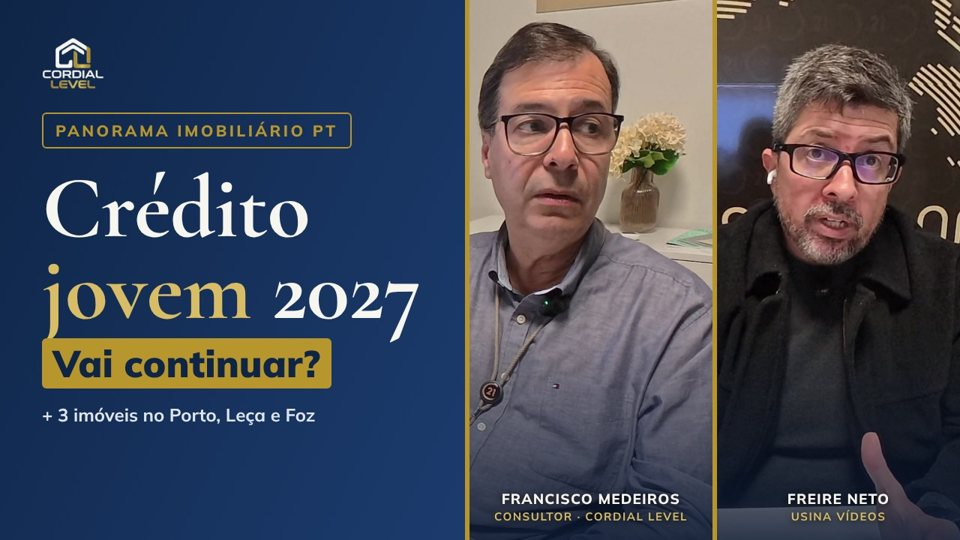
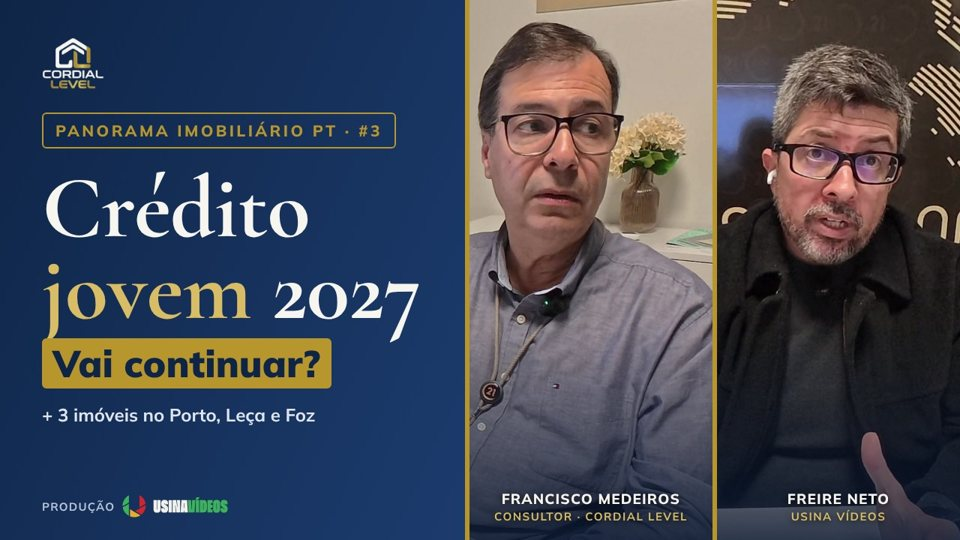
Panorama #3: artes para redes (carrossel, vertical, WhatsApp) e link para a web story na Cordial Level
Claude-Session: https://claude.ai/code/session_01UTHG5rydr4nbrxrko1yt6o

Changed region(s): [[0.3438, 0.2074, 0.4375, 0.2963], [0.0312, 0.9185, 0.25, 0.9778]]

diff --git a/cordiallevel/index.html b/cordiallevel/index.html
@@ -431,7 +431,7 @@ document.addEventListener('click',function(e){var a=e.target.closest&&e.target.c
 <div class="vfeat"><button class="yt" data-id="07GUVT6ILno" aria-label="Ver vídeo: T1 duplex em Cedofeita, no centro do Porto"><img src="https://i.ytimg.com/vi/07GUVT6ILno/hqdefault.jpg" alt="" loading="lazy" width="480" height="360"><span class="play" aria-hidden="true"></span></button><div class="vtxt"><span class="vtag">Novo · Vídeo-reportagem · 1 min 38 s</span><h3>T1 duplex em Cedofeita, no centro do Porto</h3><p>T1 duplex de 2022 num condomínio com pátio ajardinado, garagem e elevador, a poucos minutos da Baixa. 289 000 €.</p><a class="btn gold" href="cedofeita/">Ver a apresentação do imóvel →</a><a class="vlk" href="https://www.youtube.com/watch?v=07GUVT6ILno" target="_blank" rel="noopener">Ver no YouTube ↗</a></div></div>
 <h3 class="vsub">Vídeo-reportagens</h3>
 <div class="vgrid"><figure class="vid"><button class="yt" data-id="m76LalcRi0A" aria-label="Ver vídeo: T1 duplex em Cedofeita, em formato vertical"><img src="https://i.ytimg.com/vi/m76LalcRi0A/hqdefault.jpg" alt="" loading="lazy" width="480" height="360"><span class="play" aria-hidden="true"></span></button><figcaption><span>Short · 289 000 €</span>T1 duplex em Cedofeita, em formato vertical<a class="vlk" href="cedofeita/">Ver a apresentação →</a></figcaption></figure><figure class="vid"><button class="yt" data-id="yo7RN7u6JJY" aria-label="Ver vídeo: Terrenos junto ao Rio Minho, em Monção"><img src="https://i.ytimg.com/vi/yo7RN7u6JJY/hqdefault.jpg" alt="" loading="lazy" width="480" height="360"><span class="play" aria-hidden="true"></span></button><figcaption><span>Vídeo-reportagem · 1 min 45 s</span>Terrenos junto ao Rio Minho, em Monção<a class="vlk" href="moncao/">Ver a apresentação →</a></figcaption></figure><figure class="vid"><button class="yt" data-id="xEDuuPNMacM" aria-label="Ver vídeo: T3 em Leça da Palmeira, junto às Piscinas das Marés"><img src="https://i.ytimg.com/vi/xEDuuPNMacM/hqdefault.jpg" alt="" loading="lazy" width="480" height="360"><span class="play" aria-hidden="true"></span></button><figcaption><span>Vídeo-reportagem · 1 min 42 s</span>T3 em Leça da Palmeira, junto às Piscinas das Marés<a class="vlk" href="t3leca/">Ver a apresentação →</a></figcaption></figure><figure class="vid"><button class="yt" data-id="vU0bXm_uhGk" aria-label="Ver vídeo: T3 em Leça da Palmeira, em formato vertical"><img src="https://i.ytimg.com/vi/vU0bXm_uhGk/hqdefault.jpg" alt="" loading="lazy" width="480" height="360"><span class="play" aria-hidden="true"></span></button><figcaption><span>Short · 550 000 €</span>T3 em Leça da Palmeira, em formato vertical<a class="vlk" href="t3leca/">Ver a apresentação →</a></figcaption></figure><figure class="vid"><button class="yt" data-id="7JOcy10W8oY" aria-label="Ver vídeo: Novo T1 em Matosinhos, pronto a habitar"><img src="https://i.ytimg.com/vi/7JOcy10W8oY/hqdefault.jpg" alt="" loading="lazy" width="480" height="360"><span class="play" aria-hidden="true"></span></button><figcaption><span>Vídeo-reportagem · 10 min</span>Novo T1 em Matosinhos, pronto a habitar</figcaption></figure><figure class="vid"><button class="yt" data-id="Re8UZQRVTOY" aria-label="Ver vídeo: Prédio inteiro na Baixa do Porto, com potencial construtivo"><img src="https://i.ytimg.com/vi/Re8UZQRVTOY/hqdefault.jpg" alt="" loading="lazy" width="480" height="360"><span class="play" aria-hidden="true"></span></button><figcaption><span>Vídeo-reportagem · 1 min 12 s</span>Prédio inteiro na Baixa do Porto, com potencial construtivo</figcaption></figure></div>
-<div class="pod"><button class="yt" data-id="7SPYD5xZ5Hg" aria-label="Ver vídeo: Crédito jovem em 2027 e três imóveis no Porto, Leça e Foz"><img src="img/panorama-credito-jovem-2027.jpg" alt="" loading="lazy" width="480" height="270"><span class="play" aria-hidden="true"></span></button><div class="vtxt"><span class="vtag">Novo · Podcast · Panorama Imobiliário PT</span><h3>Crédito jovem em 2027: o que está decidido e o que falta decidir</h3><p>Francisco Medeiros, consultor da Cordial Level, e Freire Neto, da Usina Vídeos, explicam a garantia pública para jovens, o que muda para quem vende e apresentam três imóveis no Porto, em Leça da Palmeira e na Foz.</p><p class="ep"><b>Crédito jovem e oportunidades no Porto | Panorama Imobiliário PT</b><span>Episódio · 31 min</span></p><p class="ep"><a class="vlk" href="/blog/panorama-imobiliario-credito-jovem-2027/">Ler o resumo do episódio →</a> · <a class="vlk" href="https://www.youtube.com/watch?v=ed1kwc3x27I" target="_blank" rel="noopener">Episódio anterior: o maior erro ao comprar casa ↗</a></p></div></div>
+<div class="pod"><button class="yt" data-id="7SPYD5xZ5Hg" aria-label="Ver vídeo: Crédito jovem em 2027 e três imóveis no Porto, Leça e Foz"><img src="img/panorama-credito-jovem-2027.jpg" alt="" loading="lazy" width="480" height="270"><span class="play" aria-hidden="true"></span></button><div class="vtxt"><span class="vtag">Novo · Episódio #3 · Panorama Imobiliário PT</span><h3>Crédito jovem em 2027: o que está decidido e o que falta decidir</h3><p>Francisco Medeiros, consultor da Cordial Level, e Freire Neto, da Usina Vídeos, explicam a garantia pública para jovens, o que muda para quem vende e apresentam três imóveis no Porto, em Leça da Palmeira e na Foz.</p><p class="ep"><b>Crédito jovem e oportunidades no Porto | Panorama Imobiliário PT</b><span>Episódio #3 · 31 min</span></p><p class="ep"><a class="vlk" href="/blog/panorama-imobiliario-credito-jovem-2027/">Ler o resumo do episódio →</a> · <a class="vlk" href="/web-stories/panorama-credito-jovem-2027/">Ver a web story →</a> · <a class="vlk" href="https://www.youtube.com/watch?v=ed1kwc3x27I" target="_blank" rel="noopener">Episódio anterior: o maior erro ao comprar casa ↗</a></p></div></div>
 <div class="vcta"><a class="btn gold" href="https://www.youtube.com/@CordialLevelPT?sub_confirmation=1" target="_blank" rel="noopener">Subscrever o canal no YouTube</a><a class="btn ghost" href="https://www.youtube.com/@CordialLevelPT/videos" target="_blank" rel="noopener">Ver todos os vídeos ↗</a></div><h3 class="vsub">No Instagram da Cordial Level</h3><div class="igrow"><blockquote class="instagram-media" data-instgrm-permalink="https://www.instagram.com/p/Dd7UOxSDG8Q/?utm_source=ig_embed" data-instgrm-version="14" style="background:#fff;border:0;border-radius:14px;margin:0;max-width:540px;min-width:260px;width:100%"><a href="https://www.instagram.com/p/Dd7UOxSDG8Q/" target="_blank" rel="noopener">Instagram</a></blockquote><blockquote class="instagram-media" data-instgrm-permalink="https://www.instagram.com/p/DbMWJvfs3_z/?utm_source=ig_embed" data-instgrm-version="14" style="background:#fff;border:0;border-radius:14px;margin:0;max-width:540px;min-width:260px;width:100%"><a href="https://www.instagram.com/p/DbMWJvfs3_z/" target="_blank" rel="noopener">Instagram</a></blockquote><blockquote class="instagram-media" data-instgrm-permalink="https://www.instagram.com/p/DYfFrTsDZk0/?utm_source=ig_embed" data-instgrm-version="14" style="background:#fff;border:0;border-radius:14px;margin:0;max-width:540px;min-width:260px;width:100%"><a href="https://www.instagram.com/p/DYfFrTsDZk0/" target="_blank" rel="noopener">Instagram</a></blockquote></div><script async src="https://www.instagram.com/embed.js"></script>
   </div>
 </section>
